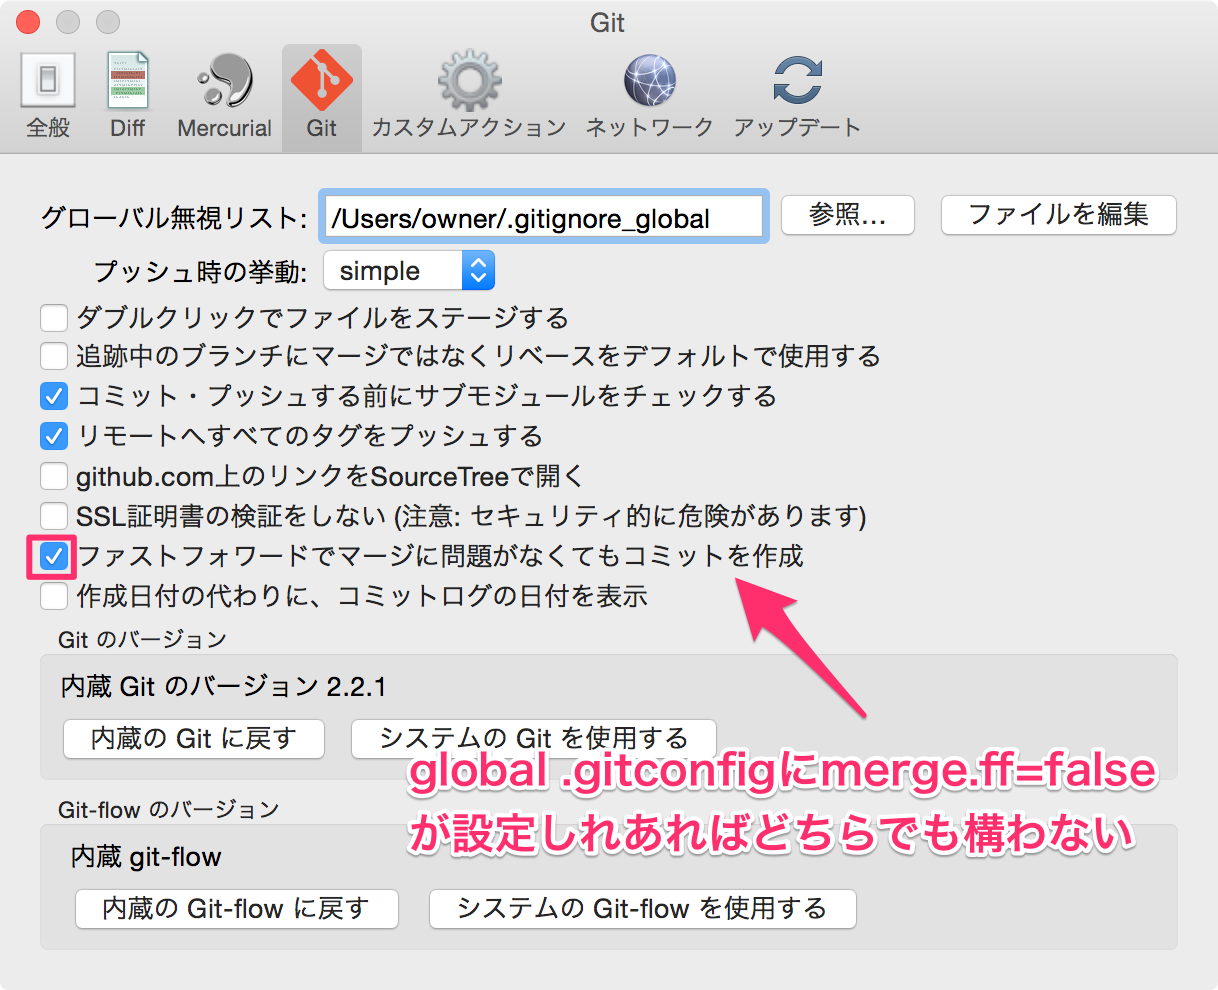
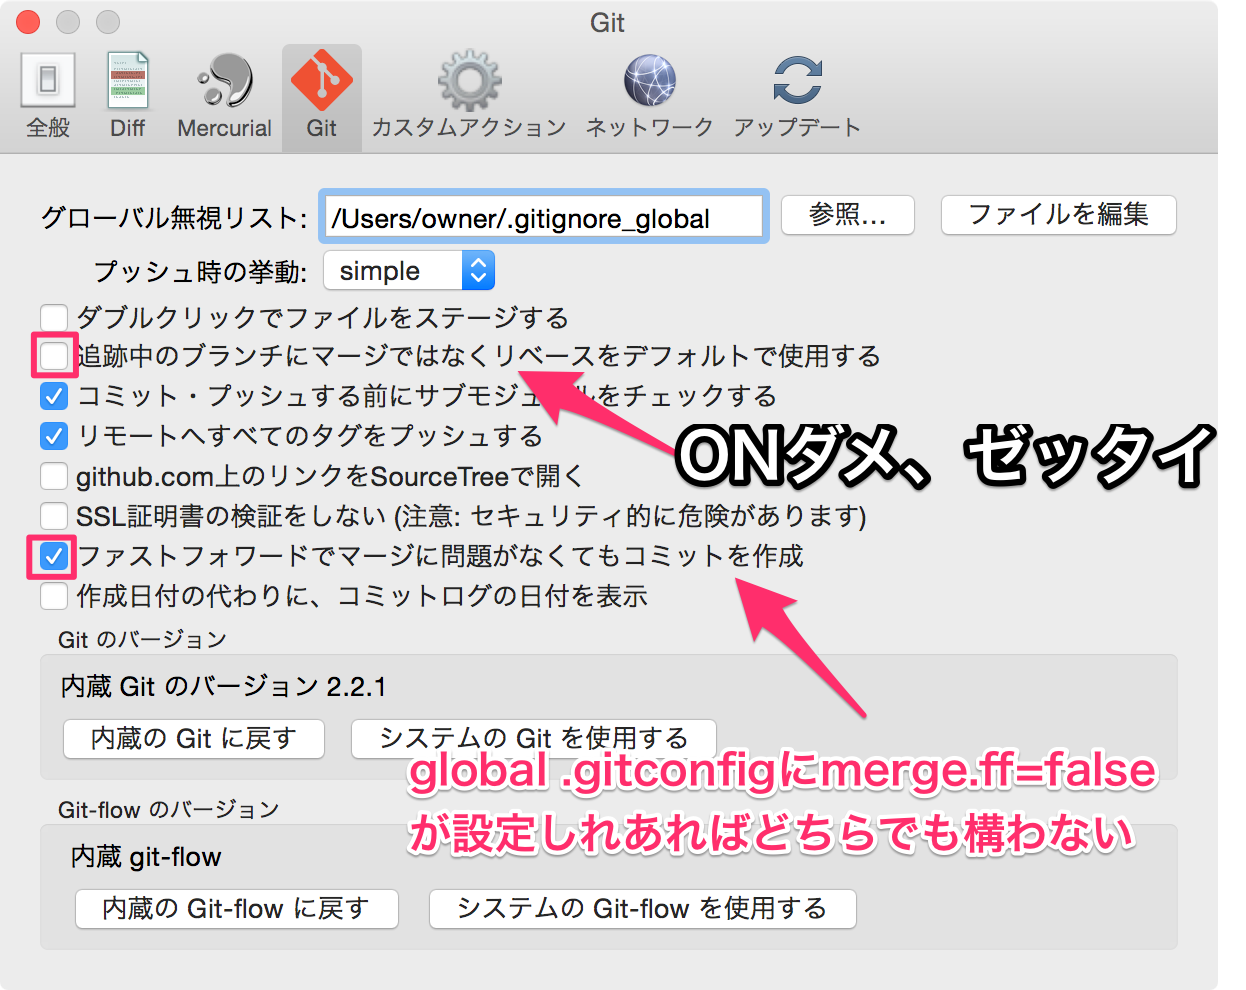
README清書

diff --git a/README.md b/README.md
@@ -1,7 +1,57 @@
 # gtitraning
-Git traning
 
-(1)と(2)が設定してあればSourceTreeのほうの設定はマージ時のリベース以外デフォルトのままで特に気にしなくてOK.
+## 以下のコマンドをターミナルで打つ
+
+### (1)マージ時のファストフォワードマージ（以下ff）を無効にする。
+
+```python
+git config --global merge.ff false
+```
+
+`ff`を無効にすると、ブランチを合流した時に`マージコミット`が残るようになります。
+
+参考：[図で分かるgit-mergeの--ff, --no-ff, --squashの違い - アジャイルSEを目指すブログ](http://d.hatena.ne.jp/sinsoku/20111025/1319497900)
+
+### (2)プル時にはマージではなくリベースを行う
+
+```python
+git config --global pull.rebase preserve
+```
+
+そもそも`pull`は内部で`merge`を行っています。`pull`の動作を分解すると`fetch`&`merge`を順に行っています。
+
+そして(1)の設定をしているので、`no-ff`マージをすることになります。
+
+`pull`時に`no-ff`マージをすると、同一ブランチ上でも枝分かれしてマージされ、コミットメッセージだけの空っぽの余計なマージコミットが残ってしまうため、頻繁にプルを行う運用環境だと、それが大量に発生しログが非常に汚くなります。
+
+それを回避するためにプルでは`rebase(git pull --rebase)`を使用こととします。**（プル以外でのrebaseは厳禁。）**
+
+参考：[[Git] 使い分けできていますか？マージ（merge）&リベース（rebase）再入門 - The Powerful Code](http://powerful-code.com/blog/2012/11/merge-or-rebase/)
+
+### (3)設定の確認
+
+```python
+git config --global --list
+```
+
+ちゃんと設定できているか、上記のコマンドで確認してください。  
+きちんと設定できている場合、以下の記述があります。
+
+```python
+merge.ff=false
+pull.rebase=preserve
+```
+
+## 画像でみる推奨設定
+
+(1)と(2)が設定してあればSourceTreeのほうの設定は、**白文字で記述した部分以外（マージ時のリベース以外）**デフォルトのままで特に気にしなくてOKです。  
+**白文字で指摘してある部分は厳守をよろしくお願いします。**
+
+- [ ] 画像1
+- [ ] 画像2
+- [ ] 画像3
+
+## まとめ
 
 ```python
 # Reference by http://qiita.com/ponko2/items/9446b45d79cc78d7662d
